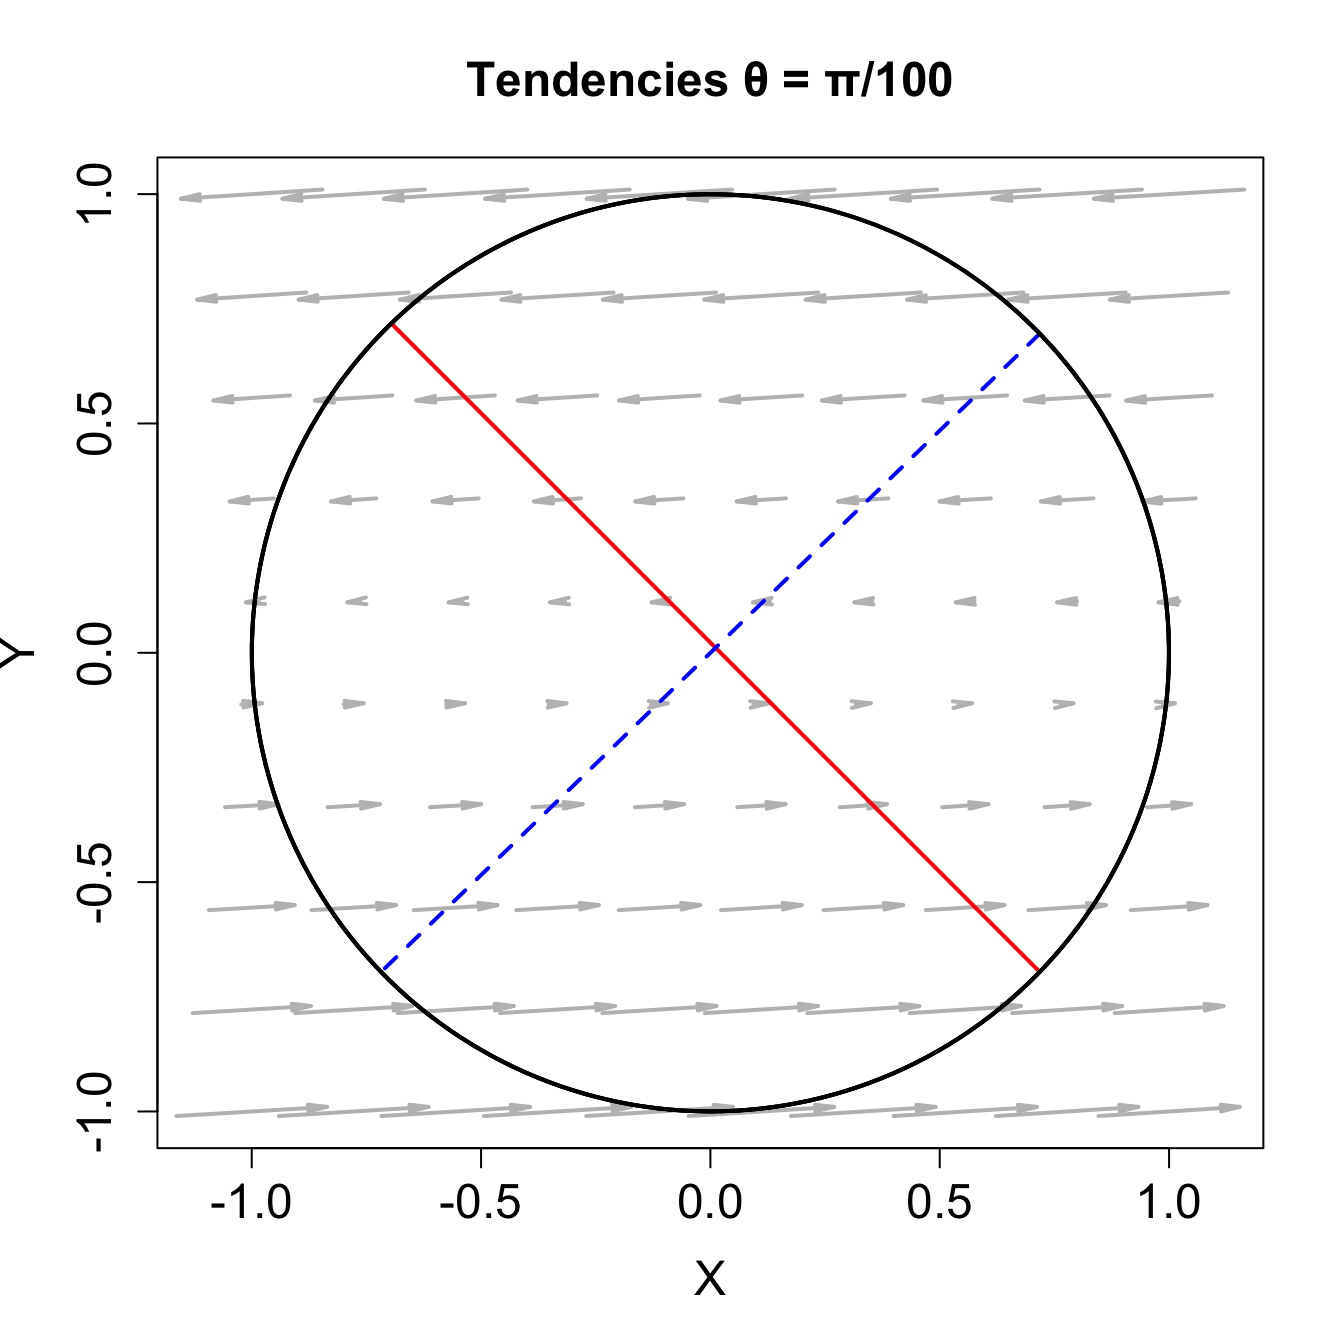
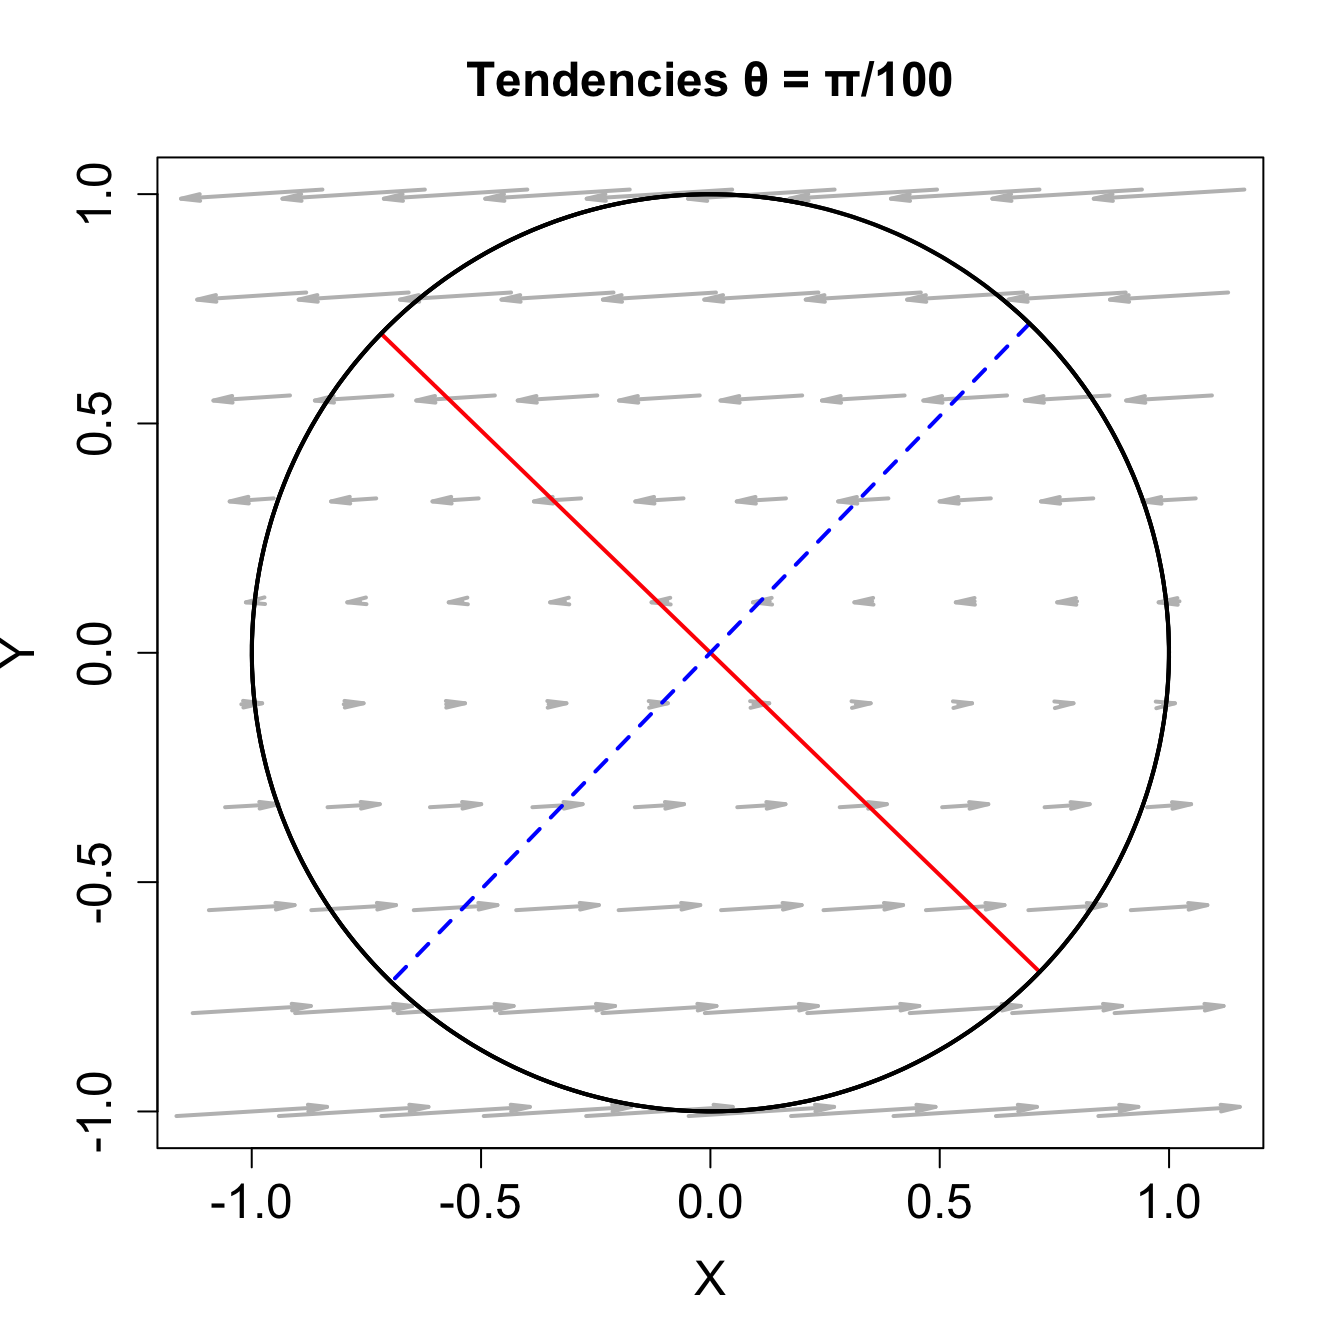
update bfgs and predator-pray
FossilOrigin-Name: b95777d4595570d59386103332e5b7320ce33d81cde8d73fe5f2eb64f4161615

diff --git a/docs/index.html b/docs/index.html
@@ -191,7 +191,7 @@ window.Quarto = {
 <!-- margin-sidebar -->
     <div id="quarto-margin-sidebar" class="sidebar margin-sidebar">
         
-    <h5 class="quarto-listing-category-title">Categories</h5><div class="quarto-listing-category category-default"><div class="category" data-category="">All <span class="quarto-category-count">(20)</span></div><div class="category" data-category="REE=">DA <span class="quarto-category-count">(2)</span></div><div class="category" data-category="TUw=">ML <span class="quarto-category-count">(1)</span></div><div class="category" data-category="YmFzaWNz">basics <span class="quarto-category-count">(3)</span></div><div class="category" data-category="Y2xpbWF0ZQ==">climate <span class="quarto-category-count">(1)</span></div><div class="category" data-category="ZHluYW1pY3M=">dynamics <span class="quarto-category-count">(1)</span></div><div class="category" data-category="Zm9ybWF0">format <span class="quarto-category-count">(1)</span></div><div class="category" data-category="ZnVuY3Rpb25z">functions <span class="quarto-category-count">(2)</span></div><div class="category" data-category="Z3JhcGhpY3M=">graphics <span class="quarto-category-count">(8)</span></div><div class="category" data-category="bW9kZWw=">model <span class="quarto-category-count">(1)</span></div><div class="category" data-category="bnVtZXJpY3M=">numerics <span class="quarto-category-count">(1)</span></div><div class="category" data-category="b3B0aW1pemF0aW9u">optimization <span class="quarto-category-count">(2)</span></div><div class="category" data-category="cGFja2FnZQ==">package <span class="quarto-category-count">(5)</span></div><div class="category" data-category="cGVyZm9ybWFuY2U=">performance <span class="quarto-category-count">(1)</span></div><div class="category" data-category="c3RhdA==">stat <span class="quarto-category-count">(2)</span></div><div class="category" data-category="dGFibGU=">table <span class="quarto-category-count">(1)</span></div><div class="category" data-category="dGVycmE=">terra <span class="quarto-category-count">(1)</span></div><div class="category" data-category="d2luZG93cw==">windows <span class="quarto-category-count">(1)</span></div></div></div>
+    <h5 class="quarto-listing-category-title">Categories</h5><div class="quarto-listing-category category-default"><div class="category" data-category="">All <span class="quarto-category-count">(20)</span></div><div class="category" data-category="REE=">DA <span class="quarto-category-count">(2)</span></div><div class="category" data-category="TUw=">ML <span class="quarto-category-count">(1)</span></div><div class="category" data-category="YmFzaWNz">basics <span class="quarto-category-count">(3)</span></div><div class="category" data-category="Y2xpbWF0ZQ==">climate <span class="quarto-category-count">(1)</span></div><div class="category" data-category="ZHluYW1pY3M=">dynamics <span class="quarto-category-count">(1)</span></div><div class="category" data-category="Zm9ybWF0">format <span class="quarto-category-count">(1)</span></div><div class="category" data-category="ZnVuY3Rpb25z">functions <span class="quarto-category-count">(2)</span></div><div class="category" data-category="Z3JhcGhpY3M=">graphics <span class="quarto-category-count">(8)</span></div><div class="category" data-category="bW9kZWw=">model <span class="quarto-category-count">(1)</span></div><div class="category" data-category="bnVtZXJpY3M=">numerics <span class="quarto-category-count">(1)</span></div><div class="category" data-category="b3B0aW1pemF0aW9u">optimization <span class="quarto-category-count">(3)</span></div><div class="category" data-category="cGFja2FnZQ==">package <span class="quarto-category-count">(5)</span></div><div class="category" data-category="cGVyZm9ybWFuY2U=">performance <span class="quarto-category-count">(1)</span></div><div class="category" data-category="c3RhdA==">stat <span class="quarto-category-count">(2)</span></div><div class="category" data-category="dGFibGU=">table <span class="quarto-category-count">(1)</span></div><div class="category" data-category="dGVycmE=">terra <span class="quarto-category-count">(1)</span></div><div class="category" data-category="d2luZG93cw==">windows <span class="quarto-category-count">(1)</span></div></div></div>
 <!-- main -->
 <main class="content quarto-banner-title-block column-page-left" id="quarto-document-content">
 
@@ -395,7 +395,7 @@ Jun 21, 2025
 </div>
 </a>
 </div>
-<div class="g-col-1" data-index="7" data-categories="ZHluYW1pY3MlMkNncmFwaGljcw==" data-listing-date-sort="1750345200000" data-listing-file-modified-sort="1750454208188" data-listing-date-modified-sort="NaN" data-listing-reading-time-sort="2" data-listing-word-count-sort="395">
+<div class="g-col-1" data-index="7" data-categories="ZHluYW1pY3MlMkNncmFwaGljcw==" data-listing-date-sort="1750345200000" data-listing-file-modified-sort="1751272420908" data-listing-date-modified-sort="NaN" data-listing-reading-time-sort="2" data-listing-word-count-sort="399">
 <a href="./posts/optperts.html" class="quarto-grid-link">
 <div class="quarto-grid-item card h-100 card-left">
 <p class="card-img-top"><img src="posts/optperts_files/figure-html/unnamed-chunk-1-1.png" style="height: 150px;"  class="thumbnail-image card-img"/></p>
@@ -426,7 +426,7 @@ Jun 20, 2025
 </div>
 </a>
 </div>
-<div class="g-col-1" data-index="8" data-categories="REElMkNNTCUyQ29wdGltaXphdGlvbg==" data-listing-date-sort="1748617200000" data-listing-file-modified-sort="1748746200062" data-listing-date-modified-sort="NaN" data-listing-reading-time-sort="1" data-listing-word-count-sort="194">
+<div class="g-col-1" data-index="8" data-categories="REElMkNNTCUyQ29wdGltaXphdGlvbg==" data-listing-date-sort="1748617200000" data-listing-file-modified-sort="1751531298791" data-listing-date-modified-sort="NaN" data-listing-reading-time-sort="1" data-listing-word-count-sort="196">
 <a href="./posts/bfgs.html" class="quarto-grid-link">
 <div class="quarto-grid-item card h-100 card-left">
 <p class="card-img-top"><img src="posts/bfgs_files/figure-html/unnamed-chunk-3-1.png" style="height: 150px;"  class="thumbnail-image card-img"/></p>
@@ -488,7 +488,7 @@ May 25, 2025
 </div>
 </a>
 </div>
-<div class="g-col-1" data-index="10" data-categories="bW9kZWwlMkNEQQ==" data-listing-date-sort="1748098800000" data-listing-file-modified-sort="1751246735748" data-listing-date-modified-sort="NaN" data-listing-reading-time-sort="8" data-listing-word-count-sort="1588">
+<div class="g-col-1" data-index="10" data-categories="bW9kZWwlMkNEQSUyQ29wdGltaXphdGlvbg==" data-listing-date-sort="1748098800000" data-listing-file-modified-sort="1751531236509" data-listing-date-modified-sort="NaN" data-listing-reading-time-sort="8" data-listing-word-count-sort="1588">
 <a href="./posts/predator-prey.html" class="quarto-grid-link">
 <div class="quarto-grid-item card h-100 card-left">
 <p class="card-img-top"><img src="posts/predator-prey_files/figure-html/unnamed-chunk-2-1.png" style="height: 150px;"  class="thumbnail-image card-img"/></p>
@@ -502,6 +502,9 @@ model
 </div>
 <div class="listing-category" onclick="window.quartoListingCategory('REE='); return false;">
 DA
+</div>
+<div class="listing-category" onclick="window.quartoListingCategory('b3B0aW1pemF0aW9u'); return false;">
+optimization
 </div>
 </div>
 <div class="card-text listing-description">

diff --git a/docs/posts/optperts.html b/docs/posts/optperts.html
@@ -289,8 +289,8 @@ window.Quarto = {
 <span id="cb3-22"><a href="#cb3-22" aria-hidden="true" tabindex="-1"></a>     <span class="at">cex.main =</span> <span class="fl">1.5</span>, <span class="at">cex.lab =</span> <span class="fl">1.5</span>, <span class="at">cex.axis =</span> <span class="fl">1.5</span>)</span>
 <span id="cb3-23"><a href="#cb3-23" aria-hidden="true" tabindex="-1"></a><span class="fu">arrows</span>(X <span class="sc">-</span> u, Y <span class="sc">-</span> v, X <span class="sc">+</span> u, Y <span class="sc">+</span> v,</span>
 <span id="cb3-24"><a href="#cb3-24" aria-hidden="true" tabindex="-1"></a>       <span class="at">col =</span> <span class="st">"gray"</span>, <span class="at">lwd =</span> <span class="dv">2</span>, <span class="at">length =</span> <span class="fl">0.1</span>, <span class="at">angle =</span> <span class="dv">10</span>)</span>
-<span id="cb3-25"><a href="#cb3-25" aria-hidden="true" tabindex="-1"></a><span class="fu">segments</span>(<span class="fu">cos</span>(pi<span class="sc">/</span><span class="dv">2</span> <span class="sc">-</span> alpha), <span class="fu">sin</span>(pi<span class="sc">/</span><span class="dv">2</span> <span class="sc">-</span> alpha), <span class="fu">cos</span>(alpha), <span class="fu">sin</span>(alpha), <span class="at">col =</span> <span class="st">"red"</span>, <span class="at">lwd =</span> <span class="dv">2</span>)</span>
-<span id="cb3-26"><a href="#cb3-26" aria-hidden="true" tabindex="-1"></a><span class="fu">segments</span>(<span class="fu">cos</span>(<span class="sc">-</span>alpha), <span class="fu">sin</span>(<span class="sc">-</span>alpha), <span class="fu">cos</span>(pi <span class="sc">-</span> alpha), <span class="fu">sin</span>(pi <span class="sc">-</span> alpha), <span class="at">col =</span> <span class="st">"blue"</span>, <span class="at">lwd =</span> <span class="dv">2</span>, <span class="at">lty =</span> <span class="dv">2</span>)</span>
+<span id="cb3-25"><a href="#cb3-25" aria-hidden="true" tabindex="-1"></a><span class="fu">segments</span>(<span class="fu">cos</span>(alpha), <span class="fu">sin</span>(alpha), <span class="fu">cos</span>(alpha <span class="sc">+</span> pi), <span class="fu">sin</span>(alpha <span class="sc">+</span> pi), <span class="at">col =</span> <span class="st">"red"</span>, <span class="at">lwd =</span> <span class="dv">2</span>)</span>
+<span id="cb3-26"><a href="#cb3-26" aria-hidden="true" tabindex="-1"></a><span class="fu">segments</span>(<span class="fu">cos</span>(alpha <span class="sc">+</span> pi<span class="sc">/</span><span class="dv">2</span>), <span class="fu">sin</span>(alpha <span class="sc">+</span> pi<span class="sc">/</span><span class="dv">2</span>), <span class="fu">cos</span>(alpha <span class="sc">+</span> <span class="dv">3</span><span class="sc">*</span>pi<span class="sc">/</span><span class="dv">2</span>), <span class="fu">sin</span>(alpha <span class="sc">+</span> <span class="dv">3</span><span class="sc">*</span>pi<span class="sc">/</span><span class="dv">2</span>), <span class="at">col =</span> <span class="st">"blue"</span>, <span class="at">lwd =</span> <span class="dv">2</span>, <span class="at">lty =</span> <span class="dv">2</span>)</span>
 <span id="cb3-27"><a href="#cb3-27" aria-hidden="true" tabindex="-1"></a>angle <span class="ot">&lt;-</span> pi <span class="sc">*</span> <span class="fu">seq</span>(<span class="dv">0</span>, <span class="dv">2</span> <span class="sc">*</span> pi, <span class="at">length.out =</span> <span class="dv">361</span>)</span>
 <span id="cb3-28"><a href="#cb3-28" aria-hidden="true" tabindex="-1"></a><span class="fu">lines</span>(<span class="fu">cos</span>(angle), <span class="fu">sin</span>(angle), <span class="at">col =</span> <span class="st">"black"</span>, <span class="at">lwd =</span> <span class="dv">2</span>)</span></code><button title="Copy to Clipboard" class="code-copy-button"><i class="bi"></i></button></pre></div>
 <div class="cell-output-display">

diff --git a/docs/posts/bfgs.html b/docs/posts/bfgs.html
@@ -255,7 +255,7 @@ f(\mathbf{x} + \mathbf{d}) \approx f(\mathbf{x}) +\mathbf{g}^\mathrm{T}\mathbf{d
 <p>ここで、<span class="math inline">\(k\)</span>は反復の番号、<span class="math inline">\(\mathbf{s}_k = \mathbf{x}_{k+1} - \mathbf{x}_k\)</span>、<span class="math inline">\(\mathbf{y}_k = \nabla f_{k+1} - \nabla f_k\)</span>、<span class="math inline">\(\mathbf{V}_k = \mathbf{I} - \rho_k\mathbf{y}_k \mathbf{s}_k^\mathrm{T}\)</span>及び<span class="math inline">\(\rho_k = 1/\mathbf{y}_k^\mathrm{T}\mathbf{s}_k\)</span>である。</p>
 <p>二次函数の仮定の下では、ステップ幅はおよそ1なので、ステップ幅計算は省略する。 BFGSには、ヘシアン逆行列を明示的に保存せずに、過去のステップと勾配から行列ベクトル積<span class="math inline">\(\mathbf{G}^{-1}\mathbf{g}\)</span>を更新するメモリ節約版もあるが、モデルの自由度が小さい場合を考えて、ここではヘシアン逆行列を明示的に保存する。</p>
 <p>BFGSはR標準の<code>{stat}</code>の<code>optim(method = "BFGS")</code>に実装されている。 その他いくつかのパッケージで使える（Taskview <a href="https://cran.r-project.org/web/views/Optimization.html">Optimization</a>参照）。</p>
-<p>パッケージの最適化手法は、最適化中のコスト函数や勾配ノルムの履歴を出力することができない。 ログを出力できるものもあるが、テキスト処理が必要になる。</p>
+<p>パッケージの最適化手法で、最適化中のコスト函数や勾配ノルムの履歴を出力するには、大域変数に記録する。 <a href="https://tenomoto.github.io/rchu/posts/predator-prey.html">捕食・被食モデル</a>に組込の <code>optim()</code> を使った例を示す。 ログを出力できるものもあるが、テキスト処理が必要になる。</p>
 <div class="cell">
 <div class="sourceCode cell-code" id="cb1"><pre class="sourceCode r code-with-copy"><code class="sourceCode r"><span id="cb1-1"><a href="#cb1-1" aria-hidden="true" tabindex="-1"></a>bfgs <span class="ot">&lt;-</span> <span class="cf">function</span>(par, fn, gr, ..., control){</span>
 <span id="cb1-2"><a href="#cb1-2" aria-hidden="true" tabindex="-1"></a>  control <span class="ot">&lt;-</span> <span class="fu">modifyList</span>(<span class="fu">list</span>(</span>

diff --git a/docs/posts/vectorize.html b/docs/posts/vectorize.html
@@ -330,18 +330,18 @@ pre > code.sourceCode > span > a:first-child::before { text-decoration: underlin
         <tbody>
                 <tr>
                   <td>loop</td>
-                  <td>0.5169</td>
+                  <td>0.5127</td>
                   <td>1</td>
                 </tr>
                 <tr>
                   <td>apply</td>
-                  <td>1.0159</td>
+                  <td>1.0109</td>
                   <td>0.51</td>
                 </tr>
                 <tr>
                   <td>vec</td>
-                  <td>0.0039</td>
-                  <td>131.61</td>
+                  <td>0.0041</td>
+                  <td>125.23</td>
                 </tr>
         </tbody>
       </table>

diff --git a/docs/posts/predator-prey.html b/docs/posts/predator-prey.html
@@ -207,6 +207,7 @@ window.Quarto = {
   <div class="quarto-categories">
     <div class="quarto-category">model</div>
     <div class="quarto-category">DA</div>
+    <div class="quarto-category">optimization</div>
   </div>
   </div>
 
